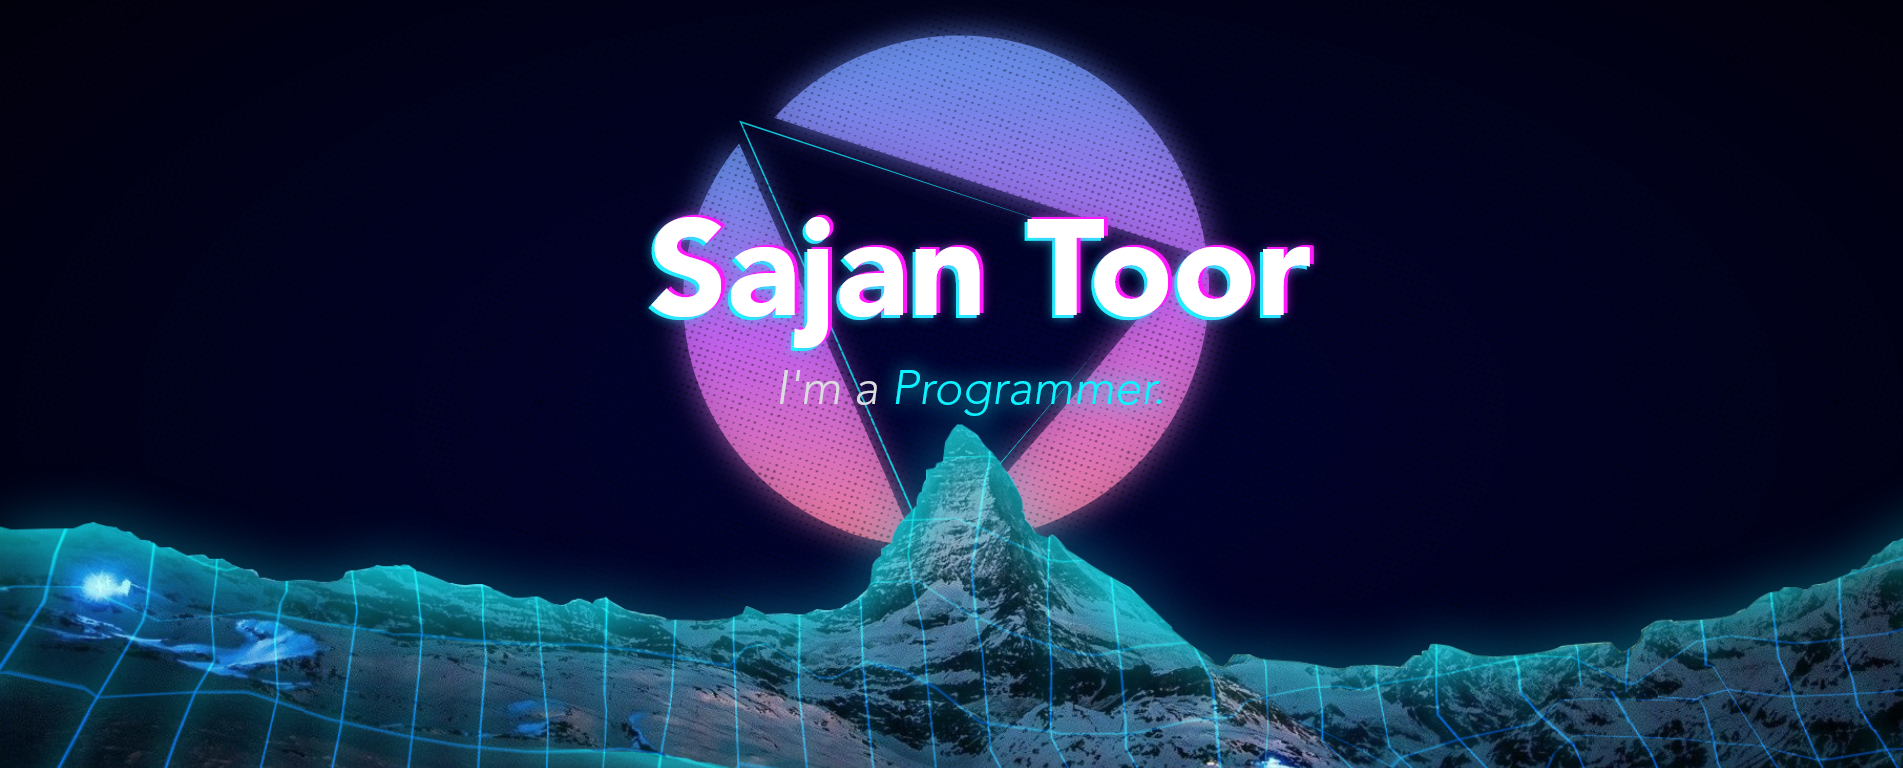
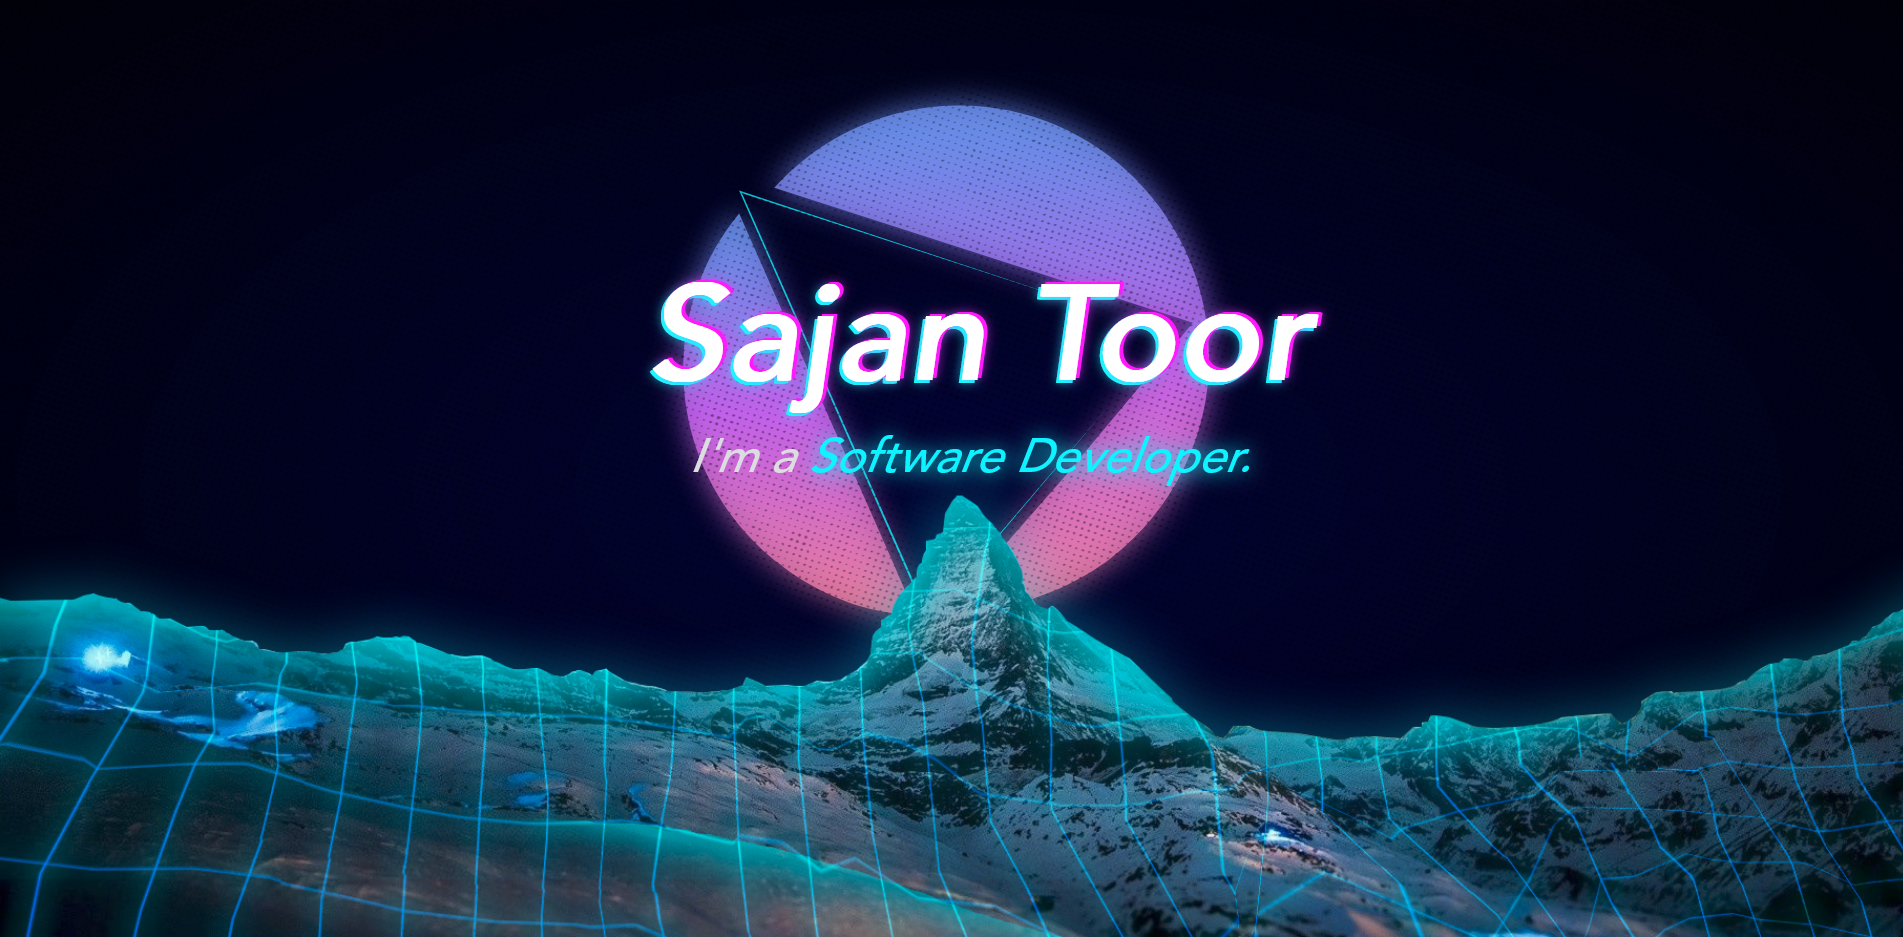
Update readme description and about

diff --git a/README.md b/README.md
@@ -1,14 +1,11 @@
 <img src="header.png"/>
 
 ## About
-* 📚 3rd year **Computer Science** student at Simon Fraser University.
 
-## LinkedIn
-<div style="float: left;">
-    <a href="https://www.linkedin.com/in/sajantoor/"> 
-        <img src="https://upload.wikimedia.org/wikipedia/commons/f/f8/LinkedIn_icon_circle.svg" height="50" style="margin:15px;"/>
-    </a>
-    <p style="margin:15px"> 
-        linkedin.com/in/sajantoor
-    </p>
-</div>
+Hi, I'm a 4th year **Computer Science** student at Simon Fraser University. I'm passionate about software engineering, backend development and cybersecurity. I'm always looking for new opportunities to learn and grow as a developer.
+
+## Contacts
+
+LinkedIn: [linkedin.com/in/sajantoor](https://www.linkedin.com/in/sajantoor/)
+
+Website: [https://sajantoor.github.io/](https://sajantoor.github.io)
